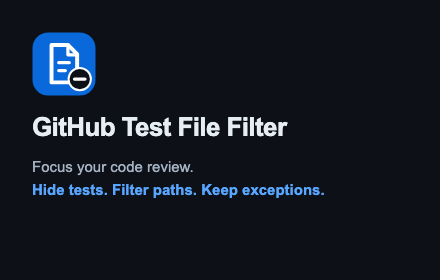
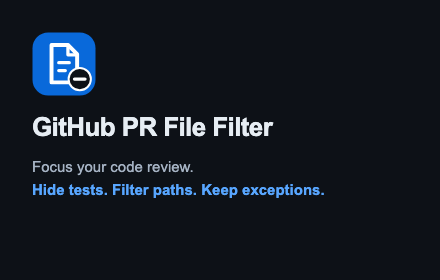
Rename project to GitHub PR File Filter

Changed region(s): [[0.2659, 0.4, 0.65, 0.4857]]

diff --git a/extension/content.js b/extension/content.js
@@ -1,12 +1,12 @@
 (() => {
   'use strict';
-  if (globalThis.__fukkSpecsLoaded) return;
-  globalThis.__fukkSpecsLoaded = true;
+  if (globalThis.__githubPrFileFilterLoaded) return;
+  globalThis.__githubPrFileFilterLoaded = true;
 
-  const hiddenAttribute = 'data-fukk-specs-hidden';
-  const diffAttribute = 'data-fukk-specs-diff';
-  const ownedAttribute = 'data-fukk-specs-owned';
-  const { DEFAULT_SETTINGS, normalizeSettings, createMatcher } = globalThis.FukkSpecs;
+  const hiddenAttribute = 'data-github-pr-file-filter-hidden';
+  const diffAttribute = 'data-github-pr-file-filter-diff';
+  const ownedAttribute = 'data-github-pr-file-filter-owned';
+  const { DEFAULT_SETTINGS, normalizeSettings, createMatcher } = globalThis.GitHubPrFileFilter;
   const menuBindings = new WeakSet();
   const treeBindings = new WeakSet();
   let hideTests = false;
@@ -47,7 +47,7 @@
     try { chrome.storage.local.set({settings}).catch(() => {}); } catch { /* Extension was reloaded. */ }
   }
 
-  function text(key) { return globalThis.FukkSpecsI18n.t(key, settings.language); }
+  function text(key) { return globalThis.GitHubPrFileFilterI18n.t(key, settings.language); }
 
   function openSettings() {
     try { chrome.runtime.sendMessage({type: 'OPEN_OPTIONS'}).catch(() => {}); } catch { /* Extension was reloaded. */ }
@@ -165,7 +165,7 @@
     if (tree.contains(document.activeElement) && document.activeElement.closest(`[${hiddenAttribute}]`)) {
       const first = rows.find(visible);
       if (first) focusRow(first);
-      else document.querySelector('[data-fukk-specs-toggle], [data-fukk-specs-fallback]')?.focus();
+      else document.querySelector('[data-github-pr-file-filter-toggle], [data-github-pr-file-filter-fallback]')?.focus();
     }
     if (settings.enabled && settings.hideInTree) {
       const stops = [...tree.querySelectorAll('[tabindex="0"]')];
@@ -175,11 +175,11 @@
         if (first) focusTarget(first).setAttribute('tabindex', '0');
       }
     }
-    const previous = tree.parentElement.querySelector(':scope > [data-fukk-specs-empty]');
+    const previous = tree.parentElement.querySelector(':scope > [data-github-pr-file-filter-empty]');
     const allHidden = rows.length > 0 && rows.filter(row => !row.parentElement.closest('[role="treeitem"]')).every(row => row.hasAttribute(hiddenAttribute));
     if (!settings.enabled || !settings.hideInTree || !allHidden) { previous?.remove(); return; }
     const message = previous || document.createElement('div');
-    message.className = 'fukk-specs-empty'; message.setAttribute('data-fukk-specs-empty', ''); message.setAttribute(ownedAttribute, '');
+    message.className = 'github-pr-file-filter-empty'; message.setAttribute('data-github-pr-file-filter-empty', ''); message.setAttribute(ownedAttribute, '');
     message.setAttribute('role', 'status'); message.textContent = text('allHidden');
     const restore = document.createElement('button'); restore.type = 'button'; restore.textContent = text('disableFilter');
     restore.addEventListener('click', () => setEnabled(false)); message.append(restore); if (!previous) tree.after(message);
@@ -240,9 +240,9 @@
       block.toggleAttribute(diffAttribute, hide);
     }
     if (moveFocus) {
-      const target = [...document.querySelectorAll('[data-fukk-specs-toggle], [data-fukk-specs-fallback], input')]
-        .find(element => visible(element) && (element.hasAttribute('data-fukk-specs-toggle')
-          || element.hasAttribute('data-fukk-specs-fallback') || /^Filter files/.test(element.getAttribute('placeholder') || '')));
+      const target = [...document.querySelectorAll('[data-github-pr-file-filter-toggle], [data-github-pr-file-filter-fallback], input')]
+        .find(element => visible(element) && (element.hasAttribute('data-github-pr-file-filter-toggle')
+          || element.hasAttribute('data-github-pr-file-filter-fallback') || /^Filter files/.test(element.getAttribute('placeholder') || '')));
       if (target) target.focus();
       else focused?.blur();
     }
@@ -257,8 +257,8 @@
     if (menuBindings.has(menu)) return;
     menuBindings.add(menu);
     menu.addEventListener('keydown', event => {
-      if (!activePage() || !menu.querySelector('[data-fukk-specs-toggle]')) return;
-      const toggle = event.target.closest('[data-fukk-specs-toggle], [data-fukk-specs-enable], [data-fukk-specs-settings]');
+      if (!activePage() || !menu.querySelector('[data-github-pr-file-filter-toggle]')) return;
+      const toggle = event.target.closest('[data-github-pr-file-filter-toggle], [data-github-pr-file-filter-enable], [data-github-pr-file-filter-settings]');
       if (toggle && [' ', 'Enter'].includes(event.key)) {
         event.preventDefault(); event.stopImmediatePropagation(); toggle.click(); return;
       }
@@ -273,46 +273,46 @@
   }
 
   function injectMenu(menu) {
-    let toggle = menu.querySelector('[data-fukk-specs-toggle]');
+    let toggle = menu.querySelector('[data-github-pr-file-filter-toggle]');
     if (!toggle) {
       const container = document.createElement(menu.tagName === 'UL' ? 'li' : 'div');
-      container.setAttribute(ownedAttribute, ''); container.setAttribute('role', 'none'); container.className = 'fukk-specs-separator';
-      toggle = document.createElement('button'); toggle.type = 'button'; toggle.className = 'fukk-specs-option';
-      toggle.setAttribute('data-fukk-specs-toggle', ''); toggle.setAttribute('role', menu.getAttribute('role') === 'listbox' ? 'option' : 'menuitemcheckbox');
+      container.setAttribute(ownedAttribute, ''); container.setAttribute('role', 'none'); container.className = 'github-pr-file-filter-separator';
+      toggle = document.createElement('button'); toggle.type = 'button'; toggle.className = 'github-pr-file-filter-option';
+      toggle.setAttribute('data-github-pr-file-filter-toggle', ''); toggle.setAttribute('role', menu.getAttribute('role') === 'listbox' ? 'option' : 'menuitemcheckbox');
       toggle.setAttribute('tabindex', '-1');
-      const check = document.createElement('span'); check.className = 'fukk-specs-check'; check.setAttribute('aria-hidden', 'true'); check.textContent = '✓';
-      const label = document.createElement('span'); label.setAttribute('data-fukk-specs-label', ''); toggle.append(check, label);
-      const enable = document.createElement('button'); enable.type = 'button'; enable.className = 'fukk-specs-option';
-      enable.setAttribute('data-fukk-specs-enable', ''); enable.setAttribute('role', toggle.getAttribute('role')); enable.tabIndex = -1;
-      const enableCheck = check.cloneNode(true); const enableLabel = document.createElement('span'); enableLabel.setAttribute('data-fukk-specs-label', ''); enable.append(enableCheck, enableLabel);
+      const check = document.createElement('span'); check.className = 'github-pr-file-filter-check'; check.setAttribute('aria-hidden', 'true'); check.textContent = '✓';
+      const label = document.createElement('span'); label.setAttribute('data-github-pr-file-filter-label', ''); toggle.append(check, label);
+      const enable = document.createElement('button'); enable.type = 'button'; enable.className = 'github-pr-file-filter-option';
+      enable.setAttribute('data-github-pr-file-filter-enable', ''); enable.setAttribute('role', toggle.getAttribute('role')); enable.tabIndex = -1;
+      const enableCheck = check.cloneNode(true); const enableLabel = document.createElement('span'); enableLabel.setAttribute('data-github-pr-file-filter-label', ''); enable.append(enableCheck, enableLabel);
       enable.addEventListener('click', event => { event.preventDefault(); event.stopPropagation(); setEnabled(!settings.enabled); });
-      const options = document.createElement('button'); options.type = 'button'; options.className = 'fukk-specs-option'; options.tabIndex = -1;
-      options.setAttribute('data-fukk-specs-settings', ''); options.setAttribute('role', menu.getAttribute('role') === 'listbox' ? 'option' : 'menuitem');
+      const options = document.createElement('button'); options.type = 'button'; options.className = 'github-pr-file-filter-option'; options.tabIndex = -1;
+      options.setAttribute('data-github-pr-file-filter-settings', ''); options.setAttribute('role', menu.getAttribute('role') === 'listbox' ? 'option' : 'menuitem');
       options.addEventListener('click', event => { event.preventDefault(); event.stopPropagation(); openSettings(); });
       container.append(enable, toggle, options);
       toggle.addEventListener('click', event => { event.preventDefault(); event.stopPropagation(); setHideTests(!hideTests); });
       (menu.querySelector('.SelectMenu-modal') || menu).append(container);
     }
-    toggle.querySelector('[data-fukk-specs-label]').textContent = text('hideTests');
+    toggle.querySelector('[data-github-pr-file-filter-label]').textContent = text('hideTests');
     toggle.setAttribute('aria-checked', String(hideTests));
     if (toggle.getAttribute('role') === 'option') toggle.setAttribute('aria-selected', String(hideTests));
-    const enable = menu.querySelector('[data-fukk-specs-enable]');
-    enable.querySelector('[data-fukk-specs-label]').textContent = text('enableFilter');
+    const enable = menu.querySelector('[data-github-pr-file-filter-enable]');
+    enable.querySelector('[data-github-pr-file-filter-label]').textContent = text('enableFilter');
     enable.setAttribute('aria-checked', String(settings.enabled));
     if (enable.getAttribute('role') === 'option') enable.setAttribute('aria-selected', String(settings.enabled));
-    menu.querySelector('[data-fukk-specs-settings]').textContent = text('settings');
+    menu.querySelector('[data-github-pr-file-filter-settings]').textContent = text('settings');
     bindMenu(menu);
   }
 
   function injectFallback(menus) {
     const search = [...document.querySelectorAll('input')].find(input => /^Filter files(?:…|\.\.\.)?$/.test(input.getAttribute('placeholder') || input.getAttribute('aria-label') || ''));
-    let fallback = document.querySelector('[data-fukk-specs-fallback]');
+    let fallback = document.querySelector('[data-github-pr-file-filter-fallback]');
     // Once the native menu has been identified, keep all controls inside it.
     if (menus.length) { fallback?.remove(); return; }
     if (!search) return;
     if (!fallback) {
-      fallback = document.createElement('button'); fallback.type = 'button'; fallback.className = 'fukk-specs-fallback';
-      fallback.setAttribute('data-fukk-specs-fallback', ''); fallback.setAttribute(ownedAttribute, '');
+      fallback = document.createElement('button'); fallback.type = 'button'; fallback.className = 'github-pr-file-filter-fallback';
+      fallback.setAttribute('data-github-pr-file-filter-fallback', ''); fallback.setAttribute(ownedAttribute, '');
       fallback.addEventListener('click', () => setHideTests(!hideTests));
       (search.closest('label')?.parentElement || search.parentElement).append(fallback);
     }

diff --git a/extension/content.css b/extension/content.css
@@ -1,6 +1,6 @@
-[data-fukk-specs-hidden] { display: none !important; }
+[data-github-pr-file-filter-hidden] { display: none !important; }
 
-.fukk-specs-option {
+.github-pr-file-filter-option {
   display: flex;
   align-items: center;
   gap: 8px;
@@ -15,20 +15,20 @@
   text-align: left;
   cursor: pointer;
 }
-.fukk-specs-option:hover, .fukk-specs-option:focus-visible {
+.github-pr-file-filter-option:hover, .github-pr-file-filter-option:focus-visible {
   background: var(--control-transparent-bgColor-hover, var(--color-action-list-item-default-hover-bg, #80808020));
 }
-.fukk-specs-option:focus-visible, .fukk-specs-fallback:focus-visible {
+.github-pr-file-filter-option:focus-visible, .github-pr-file-filter-fallback:focus-visible {
   outline: 2px solid var(--focus-outlineColor, #0969da);
   outline-offset: -2px;
 }
-.fukk-specs-check { width: 16px; flex-shrink: 0; }
-.fukk-specs-option[aria-checked="false"] .fukk-specs-check { visibility: hidden; }
-.fukk-specs-separator {
+.github-pr-file-filter-check { width: 16px; flex-shrink: 0; }
+.github-pr-file-filter-option[aria-checked="false"] .github-pr-file-filter-check { visibility: hidden; }
+.github-pr-file-filter-separator {
   margin: 4px 0;
   border-top: 1px solid var(--borderColor-default, var(--color-border-default, #80808040));
 }
-.fukk-specs-fallback {
+.github-pr-file-filter-fallback {
   margin-left: 6px;
   padding: 5px 8px;
   border: 1px solid var(--borderColor-default, #80808040);
@@ -40,6 +40,6 @@
   white-space: nowrap;
   cursor: pointer;
 }
-.fukk-specs-fallback[aria-pressed="true"] { border-color: var(--borderColor-accent-emphasis, #0969da); }
-.fukk-specs-empty { margin: 12px; color: var(--fgColor-muted, #848d97); font-size: 13px; }
-.fukk-specs-empty button { margin-top: 8px; display: block; cursor: pointer; }
+.github-pr-file-filter-fallback[aria-pressed="true"] { border-color: var(--borderColor-accent-emphasis, #0969da); }
+.github-pr-file-filter-empty { margin: 12px; color: var(--fgColor-muted, #848d97); font-size: 13px; }
+.github-pr-file-filter-empty button { margin-top: 8px; display: block; cursor: pointer; }

diff --git a/extension/options.js b/extension/options.js
@@ -1,7 +1,7 @@
 (() => {
   'use strict';
-  const { PRESETS, DEFAULT_SETTINGS, normalizeSettings, validateSettings, createMatcher } = globalThis.FukkSpecs;
-  const { t, translate } = globalThis.FukkSpecsI18n;
+  const { PRESETS, DEFAULT_SETTINGS, normalizeSettings, validateSettings, createMatcher } = globalThis.GitHubPrFileFilter;
+  const { t, translate } = globalThis.GitHubPrFileFilterI18n;
   const byId = id => document.getElementById(id);
   const fields = ['enabled', 'hide-tests', 'hide-in-tree', 'hide-in-diff', 'excluded-extensions', 'exclude-patterns', 'include-patterns', 'case-sensitive', 'language'];
   let dirty = false;
@@ -53,7 +53,7 @@
         label.querySelector(`.preset-${part}`).textContent = translated === key ? preset[part] : translated;
       }
     });
-    document.title = `GitHub Test File Filter — ${t('settings', currentLanguage)}`;
+    document.title = `GitHub PR File Filter — ${t('settings', currentLanguage)}`;
     status(statusMessage, statusVariables, statusError);
   }
 
@@ -128,7 +128,7 @@
     if (errors.length) { status('exportError', { error: errors.join('\n') }, true); return; }
     const blob = new Blob([JSON.stringify({ version: 1, hideTests: draft.hideTests, settings: normalizeSettings(draft.settings) }, null, 2) + '\n'], { type: 'application/json' });
     const url = URL.createObjectURL(blob); const link = document.createElement('a');
-    link.href = url; link.download = 'github-test-file-filter-settings.json'; link.click();
+    link.href = url; link.download = 'github-pr-file-filter-settings.json'; link.click();
     setTimeout(() => URL.revokeObjectURL(url), 1000);
   });
 

diff --git a/extension/popup.html b/extension/popup.html
@@ -3,7 +3,7 @@
 <head>
   <meta charset="utf-8">
   <meta name="viewport" content="width=device-width, initial-scale=1">
-  <title>GitHub Test File Filter</title>
+  <title>GitHub PR File Filter</title>
   <link rel="stylesheet" href="popup.css">
   <script src="test-files.js" defer></script>
   <script src="i18n.js" defer></script>
@@ -11,7 +11,7 @@
 </head>
 <body>
   <main>
-    <header><h1>GitHub Test File Filter</h1><p data-i18n="popupHelp">For GitHub pull request file trees and diffs.</p></header>
+    <header><h1>GitHub PR File Filter</h1><p data-i18n="popupHelp">For GitHub pull request file trees and diffs.</p></header>
     <label class="check"><input id="enabled" type="checkbox"><span data-i18n="enableFilter">Enable file filtering</span></label>
     <label class="check"><input id="hide-tests" type="checkbox"><span data-i18n="hideTests">Hide test files</span></label>
     <div class="summary" aria-label="Active rules"><p id="preset-count"></p><p id="rule-count"></p><p id="targets"></p></div>

diff --git a/extension/i18n.js b/extension/i18n.js
@@ -3,7 +3,7 @@
 
   const messages = {
     en: {
-      appName: 'GitHub Test File Filter',
+      appName: 'GitHub PR File Filter',
       settings: 'Settings',
       hideTests: 'Hide test files',
       hideTestsDescription: 'Recognize tests using the selected presets.',
@@ -76,7 +76,7 @@
       filterSummary: 'Active rules',
     },
     ru: {
-      appName: 'GitHub Test File Filter',
+      appName: 'GitHub PR File Filter',
       settings: 'Настройки',
       hideTests: 'Скрыть тесты',
       hideTestsDescription: 'Распознавать тесты по выбранным пресетам.',
@@ -213,5 +213,5 @@
     if (html) html.lang = language(value);
   }
 
-  globalThis.FukkSpecsI18n = Object.freeze({ language, t, translate });
+  globalThis.GitHubPrFileFilterI18n = Object.freeze({ language, t, translate });
 })();

diff --git a/extension/options.html b/extension/options.html
@@ -3,7 +3,7 @@
 <head>
   <meta charset="utf-8">
   <meta name="viewport" content="width=device-width, initial-scale=1">
-  <title>GitHub Test File Filter — Settings</title>
+  <title>GitHub PR File Filter — Settings</title>
   <link rel="stylesheet" href="options.css">
   <script src="test-files.js" defer></script>
   <script src="i18n.js" defer></script>
@@ -12,7 +12,7 @@
 <body>
   <main>
     <header>
-      <div class="brand">GitHub Test File Filter <span class="tag">1.1</span></div>
+      <div class="brand">GitHub PR File Filter <span class="tag">1.1</span></div>
       <h1 data-i18n="settingsTitle">File filtering settings</h1>
       <p data-i18n="settingsIntro"></p>
     </header>

diff --git a/extension/popup.js b/extension/popup.js
@@ -1,7 +1,7 @@
 (() => {
   'use strict';
-  const { DEFAULT_SETTINGS, normalizeSettings } = globalThis.FukkSpecs;
-  const { t, translate } = globalThis.FukkSpecsI18n;
+  const { DEFAULT_SETTINGS, normalizeSettings } = globalThis.GitHubPrFileFilter;
+  const { t, translate } = globalThis.GitHubPrFileFilterI18n;
   const byId = id => document.getElementById(id);
   let state = { hideTests: false, settings: normalizeSettings(DEFAULT_SETTINGS) };
 

diff --git a/extension/test-files.js b/extension/test-files.js
@@ -242,5 +242,5 @@
     return settings === DEFAULT_SETTINGS ? defaultMatcher(path) : createMatcher(settings, true)(path);
   }
 
-  globalThis.FukkSpecs = Object.freeze({ PRESETS, DEFAULT_SETTINGS, normalizeSettings, validateSettings, createMatcher, isTestFile });
+  globalThis.GitHubPrFileFilter = Object.freeze({ PRESETS, DEFAULT_SETTINGS, normalizeSettings, validateSettings, createMatcher, isTestFile });
 })();

diff --git a/docs/README.ru.md b/docs/README.ru.md
@@ -1,12 +1,12 @@
-# Fukk Specs — фильтр файлов GitHub PR
+# GitHub PR File Filter — фильтр файлов GitHub PR
 
-[English](../README.md) · [Релизы](https://github.com/vezmenov/fukk-specs/releases) · [Сообщить об ошибке](https://github.com/vezmenov/fukk-specs/issues)
+[English](../README.md) · [Релизы](https://github.com/vezmenov/github-pr-file-filter/releases) · [Сообщить об ошибке](https://github.com/vezmenov/github-pr-file-filter/issues)
 
 Расширение скрывает тестовые файлы и выбранные типы файлов в дереве GitHub PR и в карточках diff справа. Скрываются целые карточки, включая свёрнутые и загруженные позже. Выключение фильтра возвращает файлы; Viewed, комментарии и черновики ревью не меняются.
 
 ## Установка
 
-1. Скачайте `fukk-specs-<версия>.zip` из [релизов](https://github.com/vezmenov/fukk-specs/releases) и распакуйте.
+1. Скачайте `github-pr-file-filter-<версия>.zip` из [релизов](https://github.com/vezmenov/github-pr-file-filter/releases) и распакуйте.
 2. Откройте `chrome://extensions` или `edge://extensions`, включите **Режим разработчика**.
 3. Нажмите **Загрузить распакованное расширение** и выберите каталог с `manifest.json`. При установке из исходников выберите `extension/`.
 4. Перезагрузите страницу PR, откройте меню рядом с **Filter files…** и включите **Скрыть тесты**.
@@ -75,6 +75,6 @@ npm run package
 
 Unit/DOM-тесты проверяют правила и работу с разметкой. Browser smoke загружает настоящий Manifest V3 в отдельный временный профиль Chromium и проверяет контролируемую страницу, сохранение настроек, обмен между вкладками и переходы. Эта проверка не использует пользовательский профиль и не подтверждает совместимость с любыми будущими изменениями GitHub.
 
-Упаковка создаёт `dist/fukk-specs-<версия>.zip` только из файлов `extension/`, с `manifest.json` в корне. CI выполняет те же проверки и сохраняет ZIP как артефакт.
+Упаковка создаёт `dist/github-pr-file-filter-<версия>.zip` только из файлов `extension/`, с `manifest.json` в корне. CI выполняет те же проверки и сохраняет ZIP как артефакт.
 
 [Правила участия](../CONTRIBUTING.md) · [Лицензия MIT](../LICENSE). Независимый проект, не связан с GitHub и Google.

diff --git a/docs/CHROME_WEB_STORE.md b/docs/CHROME_WEB_STORE.md
@@ -6,15 +6,15 @@ This document contains prepared listing text and the release checklist. It does 
 
 | Field | Value |
 | --- | --- |
-| Name | GitHub Test File Filter |
+| Name | GitHub PR File Filter |
 | Version | 1.1.0 |
 | Primary language | English |
 | Category | Developer Tools, if available in the current dashboard |
 | Price | Free |
 | Visibility | Public |
-| Homepage | `https://github.com/vezmenov/fukk-specs` |
-| Support | `https://github.com/vezmenov/fukk-specs/issues` |
-| Privacy policy | `https://github.com/vezmenov/fukk-specs/blob/main/docs/PRIVACY.md` |
+| Homepage | `https://github.com/vezmenov/github-pr-file-filter` |
+| Support | `https://github.com/vezmenov/github-pr-file-filter/issues` |
+| Privacy policy | `https://github.com/vezmenov/github-pr-file-filter/blob/main/docs/PRIVACY.md` |
 
 ### Short description
 
@@ -47,7 +47,7 @@ Filtering is reversible. It does not change Viewed markers, comments, or review 
 
 Privacy: settings stay in your browser profile. No analytics, telemetry, account credentials, remote code, or external requests. File paths are processed locally and are not stored or sent anywhere. The storage permission saves your preferences, and GitHub site access lets the filter follow in-page navigation.
 
-Free and open source under the MIT license. Source code and support: https://github.com/vezmenov/fukk-specs
+Free and open source under the MIT license. Source code and support: https://github.com/vezmenov/github-pr-file-filter
 
 This independent extension is not affiliated with GitHub or Google.
 ```
@@ -94,7 +94,7 @@ Only the icon, small promotional image, and a screenshot are mandatory; a promot
 ## Release checklist
 
 1. Run `npm ci`, `npm test`, `npm run test:browser`, and `npm run package`; verify the unpacked extension on a real GitHub PR. Fixture tests and real GitHub checks are separate evidence.
-2. Inspect `dist/fukk-specs-1.1.0.zip`: `manifest.json` must be at its root, version/name/description must be correct, and only extension runtime assets must be present.
+2. Inspect `dist/github-pr-file-filter-1.1.0.zip`: `manifest.json` must be at its root, version/name/description must be correct, and only extension runtime assets must be present.
 3. Confirm the public source repository and privacy URL are accessible. Use generic demo content for store screenshots.
 4. Sign in to the intended publisher account. New publishers must register, accept the developer terms, and pay a one-time registration fee before submission. The account owner must handle registration, agreements, and payment. [Registration](https://developer.chrome.com/docs/webstore/register/).
 5. Add a new item, upload the ZIP, complete listing, privacy, distribution, and any test-instruction fields. Select free public distribution in the supported regions you intend to serve.

diff --git a/README.md b/README.md
@@ -1,6 +1,6 @@
-# Fukk Specs — GitHub Test File Filter
+# GitHub PR File Filter
 
-[Русская документация](docs/README.ru.md) · [Releases](https://github.com/vezmenov/fukk-specs/releases) · [Report an issue](https://github.com/vezmenov/fukk-specs/issues)
+[Русская документация](docs/README.ru.md) · [Releases](https://github.com/vezmenov/github-pr-file-filter/releases) · [Report an issue](https://github.com/vezmenov/github-pr-file-filter/issues)
 
 A browser extension that hides test files and selected file types from GitHub pull request reviews. It filters both the file tree and the complete diff cards, including collapsed cards and files loaded later.
 
@@ -10,7 +10,7 @@ The **Hide tests** switch is added to GitHub's file filter menu beside **Filter 
 
 ## Install
 
-1. Download the latest `fukk-specs-<version>.zip` from [GitHub Releases](https://github.com/vezmenov/fukk-specs/releases) and extract it.
+1. Download the latest `github-pr-file-filter-<version>.zip` from [GitHub Releases](https://github.com/vezmenov/github-pr-file-filter/releases) and extract it.
 2. Open `chrome://extensions` in Chrome or `edge://extensions` in Edge.
 3. Enable **Developer mode**, click **Load unpacked**, and select the extracted directory containing `manifest.json`. For a source checkout, select `extension/`.
 4. Reload your GitHub PR page, open the file filter menu, and enable **Hide tests**.
@@ -79,6 +79,6 @@ npm run package
 
 `npm test` checks classification, custom rules, and DOM behavior. The browser smoke test loads the real Manifest V3 package into an isolated Chromium profile and uses a controlled GitHub-shaped fixture to test filtering, persistence, cross-tab settings, and navigation. It does not use your browser profile or establish compatibility with every future GitHub UI change.
 
-`npm run package` produces `dist/fukk-specs-<version>.zip` from `extension/`, with `manifest.json` at the archive root. Source files, tests, documentation, and development dependencies are excluded from the extension package. CI runs the same checks and uploads the ZIP as a build artifact.
+`npm run package` produces `dist/github-pr-file-filter-<version>.zip` from `extension/`, with `manifest.json` at the archive root. Source files, tests, documentation, and development dependencies are excluded from the extension package. CI runs the same checks and uploads the ZIP as a build artifact.
 
 Contributions and new naming conventions are welcome; see [CONTRIBUTING](CONTRIBUTING.md). Licensed under [MIT](LICENSE). This independent project is not affiliated with GitHub or Google.

diff --git a/docs/PRIVACY.md b/docs/PRIVACY.md
@@ -2,7 +2,7 @@
 
 Effective date: October 14, 2026
 
-This policy applies to **GitHub Test File Filter**, the open-source browser extension maintained in [vezmenov/fukk-specs](https://github.com/vezmenov/fukk-specs).
+This policy applies to **GitHub PR File Filter**, the open-source browser extension maintained in [vezmenov/github-pr-file-filter](https://github.com/vezmenov/github-pr-file-filter).
 
 ## Local processing
 
@@ -26,4 +26,4 @@ A content script is declared for `https://github.com/*` to support GitHub's navi
 
 The publisher does not receive, sell, or share extension user data. Use of information is limited to the local file filtering feature described above. Changes to this policy will be published in this repository with an updated effective date.
 
-For questions, open an issue in [the public issue tracker](https://github.com/vezmenov/fukk-specs/issues). Do not include confidential repository contents or credentials in a public issue.
+For questions, open an issue in [the public issue tracker](https://github.com/vezmenov/github-pr-file-filter/issues). Do not include confidential repository contents or credentials in a public issue.
